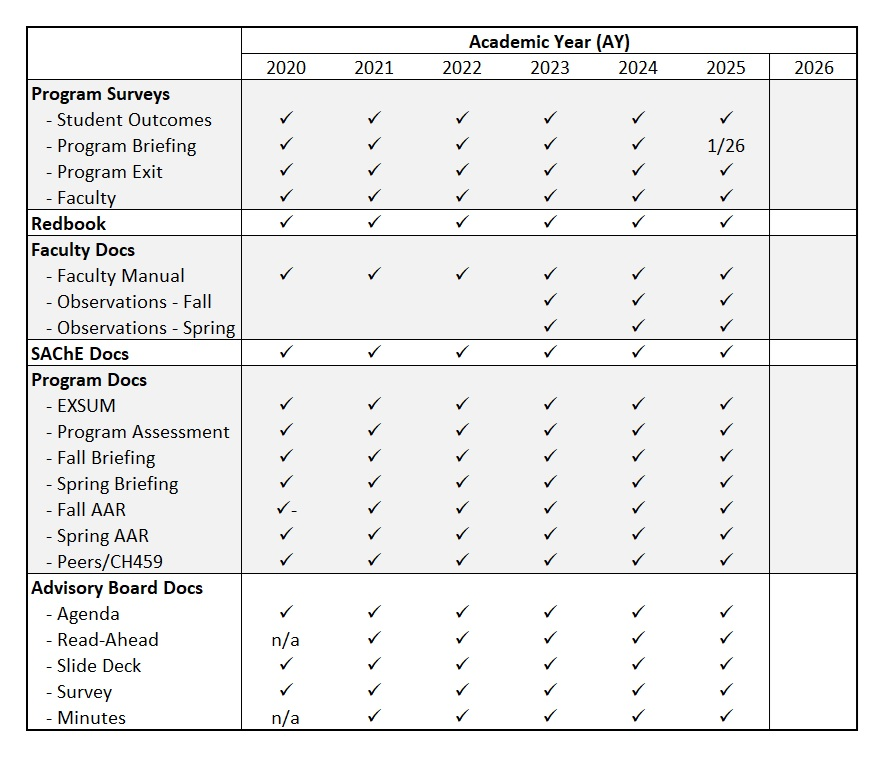
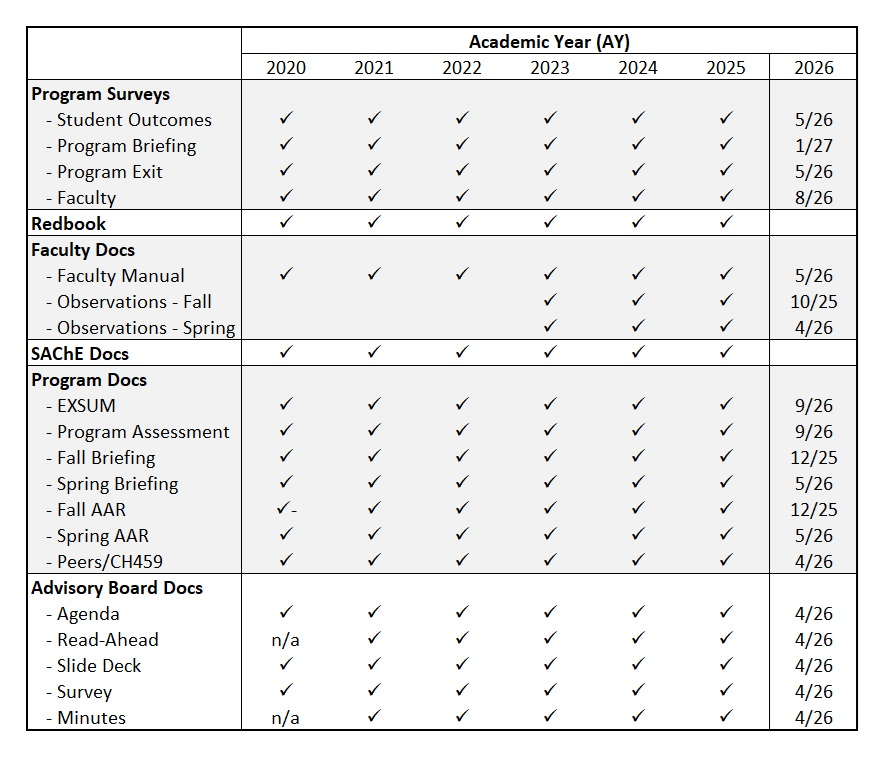
Tracker update

diff --git a/ABET/indexABET.htm b/ABET/indexABET.htm
@@ -29,10 +29,10 @@ div.absolute1 {
 <body background="Images/Crest_002.jpg" style="background-attachment: fixed" topmargin="25" leftmargin="25" rightmargin="25" bottommargin="25">
 
 <!-- TITLE SECTION -->
-<p class="MsoNormal" align="center"><b><font face="Calibri" color="#FF0000" style="font-size: 72pt">PROGRAM DOCUMENTSsss</font></b></p>
-<p class="MsoNormal" align="center"><font face="Calibri" size="6">Last ABET Visit 15-19 November 2020; Next Visit Fall 2026</font></p>
+<p class="MsoNormal" align="center"><b><font face="Calibri" color="#FF0000" style="font-size: 72pt">PROGRAM DOCUMENTS</font></b></p>
+<p class="MsoNormal" align="center"><font face="Calibri" size="6">Last ABET Visit 15-19 November 2020; Next Visit 20-23 September 2026</font></p>
 <p class="MsoNormal" align="center"><font face="Calibri" size="6"><a class="auto-style1" href="Misc/Schedule_12NOV2020.pdf">PREVIOUS VISIT SCHEDULE</a></font></p>
-<p class="MsoNormal" align="center"><font face="Calibri" size="5">Last Update 1355 11 September 2025</font></p>
+<p class="MsoNormal" align="center"><font face="Calibri" size="5">Last Update 1444 8 January 2026</font></p>
 
 
 <!-- COURSEWORK DISPLAYS -->
